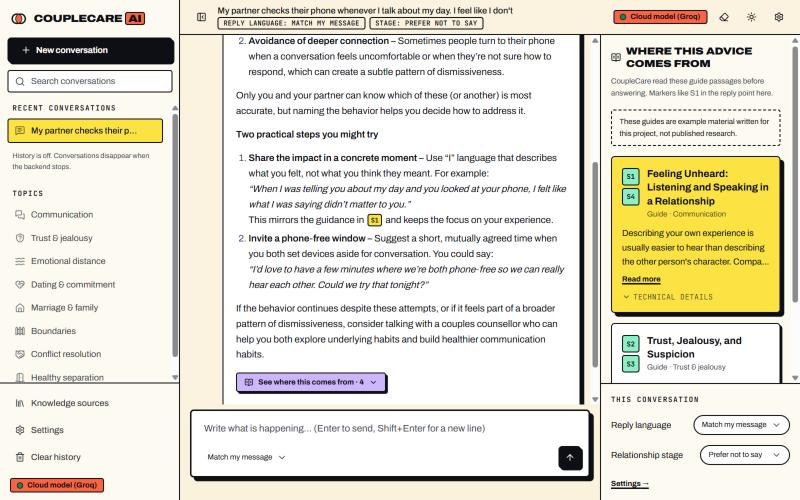
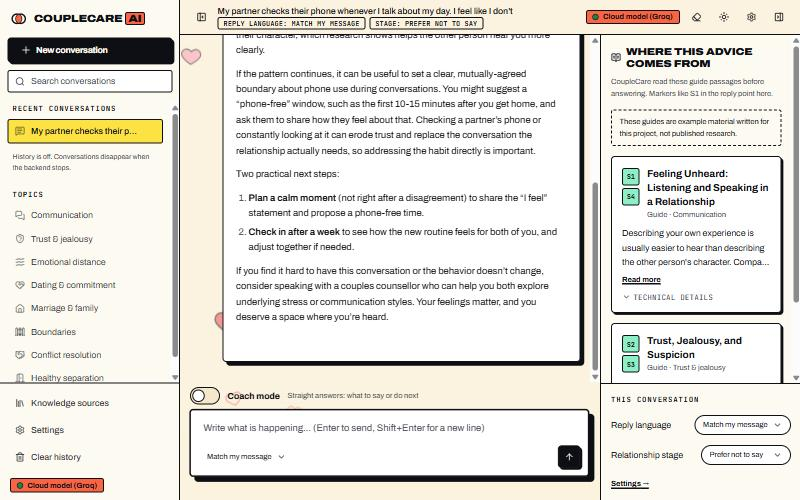
docs: new screenshots (hearts, coach mode, no inline markers); hearts fixed to the viewport and more visible

diff --git a/frontend/src/components/landing/ChatPreview.tsx b/frontend/src/components/landing/ChatPreview.tsx
@@ -51,9 +51,6 @@ export function ChatPreview() {
           >
             <p className="rounded-md border-2 border-ink bg-surface-solid px-4 py-3 text-sm leading-relaxed text-foreground shadow-soft dark:border-foreground">
               {t.hero.previewAssistant}
-              <span className="ml-1 inline-flex translate-y-[-1px] items-center rounded-sm border-2 border-ink bg-mint px-1 font-mono text-[0.65rem] font-bold text-ink">
-                S1
-              </span>
             </p>
             <motion.div
               initial={enter({ opacity: 0, y: 8 })}

diff --git a/frontend/src/styles/index.css b/frontend/src/styles/index.css
@@ -414,9 +414,9 @@ html[data-motion='reduced'] .flip-char::before, html[data-motion='reduced'] .fli
 :root {
   --heart-pink: oklch(0.8 0.14 2);
   --heart-red: oklch(0.63 0.22 22);
-  --heart-opacity: 0.32;
+  --heart-opacity: 0.5;
 }
-.dark { --heart-opacity: 0.22; }
+.dark { --heart-opacity: 0.32; }
 .heart { transform: rotate(var(--heart-rotate)); opacity: var(--heart-opacity); }
 .heart-pink path { fill: var(--heart-pink); stroke: var(--ink); stroke-width: 1.2; }
 .heart-red path { fill: var(--heart-red); stroke: var(--ink); stroke-width: 1.2; }

diff --git a/frontend/src/components/layout/PublicLayout.tsx b/frontend/src/components/layout/PublicLayout.tsx
@@ -16,7 +16,7 @@ export function PublicLayout() {
       </a>
       <SiteHeader />
       <main id="main" className="relative isolate flex-1 overflow-x-clip">
-        <HeartsBackdrop count={42} seed={11} />
+        <HeartsBackdrop count={22} seed={11} className="fixed" />
         <Outlet />
       </main>
       <SiteFooter />

diff --git a/README.md b/README.md
@@ -9,11 +9,15 @@ model and retrieval-augmented generation (RAG) with source citations and an inde
 
 ![CoupleCare AI landing page (light theme)](docs/screenshots/landing-light.jpg)
 
-| English answer — source S1 highlighted | Bangla answer with clickable sources | Knowledge base (dark theme) |
-|---|---|---|
-| ![Chat in English](docs/screenshots/chat-english.jpg) | ![Chat in Bangla](docs/screenshots/chat-bangla.jpg) | ![Knowledge page](docs/screenshots/knowledge-dark.jpg) |
+| Normal reply — sources in the side panel | Coach mode — what to say next (stage: Single) |
+|---|---|
+| ![Chat in English](docs/screenshots/chat-english.jpg) | ![Coach mode](docs/screenshots/chat-coach.jpg) |
 
-_Screenshots of the real app (redesigned 2026-10-15). The chat screenshots were taken in optional cloud mode (Groq `openai/gpt-oss-120b`, note the “Cloud model (Groq)” badge); the default local mode uses Qwen3-4B on the RTX 4060. The knowledge base shown is the bundled synthetic development corpus._
+| Bangla reply | Knowledge base (dark theme) |
+|---|---|
+| ![Chat in Bangla](docs/screenshots/chat-bangla.jpg) | ![Knowledge page](docs/screenshots/knowledge-dark.jpg) |
+
+_Screenshots of the real app (2026-10-16). The chat screenshots were taken in optional cloud mode (Groq `openai/gpt-oss-120b`, note the “Cloud model (Groq)” badge); the default local mode uses Qwen3-4B on the RTX 4060. The knowledge base shown is the bundled synthetic development corpus — which is why the coach-mode example lists loosely related guides: it has no material on meeting someone new yet._
 
 ## Status (2026-10-15)
 
